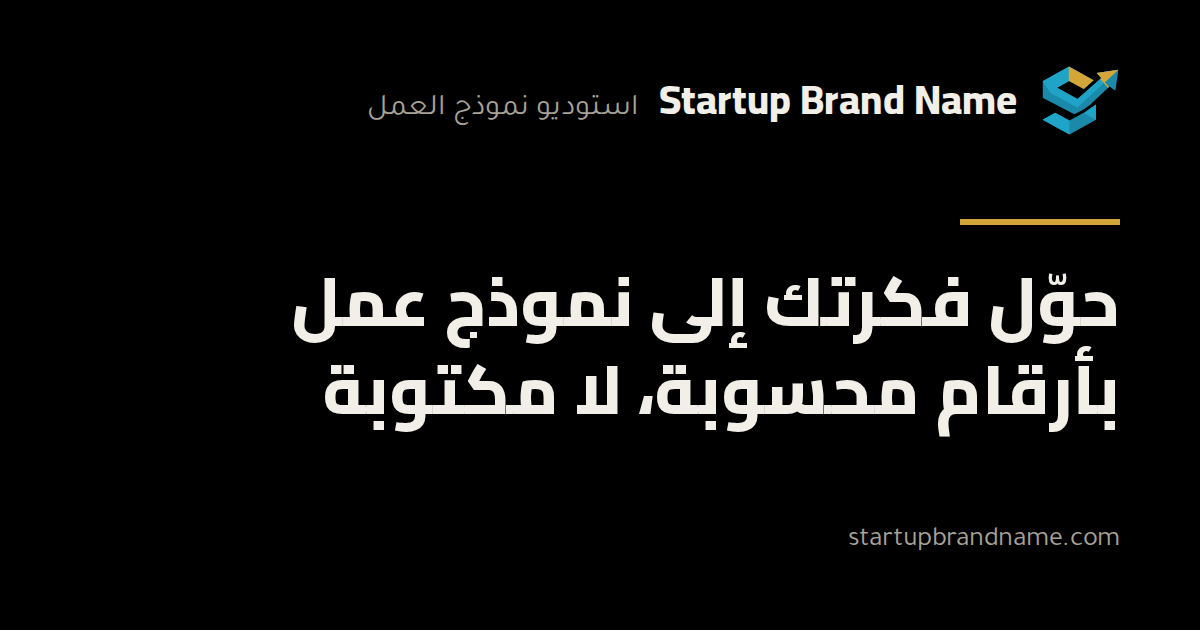
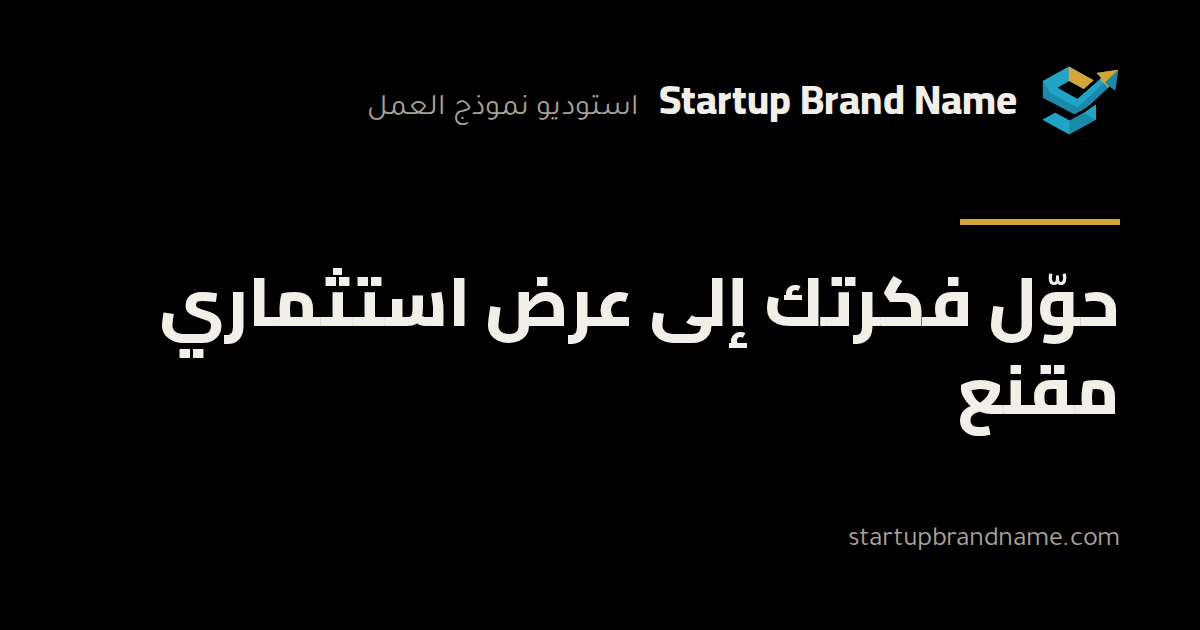
feat(web): investor headline and the public launch counter on the home page (D-344) (#117)
* feat(web): investor headline and the public launch counter on the home page (D-344)

Headline, sub-headline and one button; the counter shows the real spots and days left.
GET /api/launch/window is public and cached for a minute. The button still goes to sign-up.

* fix(web): keep zod out of the counter and rename its number tag

zod in the browser grew every page past the script budget; the counter checks by hand.
The tag was named left, which the logical-CSS check reads as a property.

* test(web): update the snapshots of the new home page

The home page and its share image changed with D-344.

---------

Changed region(s): [[0.1233, 0.4222, 0.925, 0.6937]]

diff --git a/apps/web/src/components/launch/launch-counter.tsx b/apps/web/src/components/launch/launch-counter.tsx
@@ -1,0 +1,73 @@
+'use client';
+
+import { useTranslations } from 'next-intl';
+import { useEffect, useState } from 'react';
+import { type CounterData, daysLeft, parseCounter } from '@/lib/launch/counter';
+
+type State =
+  | { readonly status: 'loading' }
+  | { readonly status: 'ready'; readonly data: CounterData; readonly days: number | null }
+  | { readonly status: 'unavailable' };
+
+/** Western digits, isolated, in both languages (CLAUDE.md §6). */
+function Num({ value }: { value: number }) {
+  return <bdi className="num">{value}</bdi>;
+}
+
+/**
+ * The public counter of the free launch window (D-331, D-344): the spots left of the total and the
+ * days left, read from the database through /api/launch/window. A thin gold rule marks it; the
+ * numbers are plain and heavy, because gold belongs to the one button of the page. The box keeps
+ * its height while it loads and when the numbers cannot be read, so nothing around it moves, and
+ * no number is ever shown that was not received.
+ */
+export function LaunchCounter() {
+  const t = useTranslations('launch');
+  const [state, setState] = useState<State>({ status: 'loading' });
+
+  useEffect(() => {
+    const controller = new AbortController();
+    fetch('/api/launch/window', { signal: controller.signal })
+      .then((response) => (response.ok ? response.json() : Promise.reject(new Error('status'))))
+      .then((body: unknown) => {
+        const data = parseCounter(body);
+        // The days are counted here, when the answer arrives: a render must not read the clock.
+        setState(
+          data === null
+            ? { status: 'unavailable' }
+            : { status: 'ready', data, days: daysLeft(data.endsAt, Date.now()) },
+        );
+      })
+      .catch(() => {
+        if (!controller.signal.aborted) setState({ status: 'unavailable' });
+      });
+    return () => {
+      controller.abort();
+    };
+  }, []);
+
+  const data = state.status === 'ready' ? state.data : null;
+  const days = state.status === 'ready' ? state.days : null;
+
+  return (
+    <div aria-live="polite" className="min-h-[5.5rem] border-s-[3px] border-gold-ink ps-4">
+      {data === null ? null : data.open && days !== 0 ? (
+        <div className="grid gap-1">
+          <p className="font-display text-h3 font-extrabold">
+            {t.rich('counterSpots', {
+              spots: () => <Num value={data.spotsLeft} />,
+              total: () => <Num value={data.spotsTotal} />,
+            })}
+          </p>
+          {days === null ? null : (
+            <p className="text-body font-bold text-ink-2">
+              {t.rich('counterDays', { days: () => <Num value={days} /> })}
+            </p>
+          )}
+        </div>
+      ) : (
+        <p className="reading text-small font-bold">{t('closed')}</p>
+      )}
+    </div>
+  );
+}

diff --git a/apps/web/src/content/home.ts b/apps/web/src/content/home.ts
@@ -3,10 +3,10 @@ import type { Localized, TitledText } from './types';
 
 export interface HomeContent {
   heading: string;
+  /** The line under the heading: what the visitor gets. */
+  subheading: string;
   lead: string;
-  status: string;
   start: string;
-  secondary: string;
   /** The link from the hero to the sample report. */
   sample: string;
   verdictLabel: string;
@@ -29,12 +29,10 @@ export interface HomeContent {
 
 export const HOME: Localized<HomeContent> = {
   ar: {
-    heading: 'حوّل فكرتك إلى نموذج عمل بأرقام محسوبة، لا مكتوبة',
-    lead: 'تشخيص منظّم لفكرة مشروعك، وأرقام يحسبها محرّك معادلات لا نموذج لغوي، وتقرير عربي ينتهي بحكم واضح: امضِ، أو عدّل، أو توقّف.',
-    status:
-      'نبني المنصة على مراحل: إنشاء الحساب متاح الآن مجانًا، ويُطلق التشخيص ثم التقرير تباعًا.',
-    start: 'ابدأ مجانًا',
-    secondary: 'كيف تعمل المنصة',
+    heading: 'تمكين الأفكار بلغة الاستثمار',
+    subheading: 'حوّل فكرتك إلى عرض استثماري مقنع',
+    lead: 'أجب عن أسئلة منظّمة، وتحصل على تقرير بأرقام يحسبها المحرّك لا نموذج لغوي، وحكم واضح: امضِ أو عدّل أو توقّف.',
+    start: 'ابدأ الآن',
     sample: 'شاهد تقريرًا نموذجيًا',
     verdictLabel: 'الحكم في كل تقرير',
     verdict: [
@@ -91,12 +89,10 @@ export const HOME: Localized<HomeContent> = {
     closingAction: 'أنشئ حسابك',
   },
   en: {
-    heading: 'Turn your idea into a business model with numbers that are calculated, not written',
-    lead: 'A structured diagnostic of your business idea, numbers computed by a formula engine rather than a language model, and an Arabic report that ends with a clear verdict: go, revise or stop.',
-    status:
-      'We are building the platform in stages: you can create a free account now, and the diagnostic and then the report follow.',
-    start: 'Start for free',
-    secondary: 'How it works',
+    heading: 'Empowering ideas in the language of investment',
+    subheading: 'Turn your idea into a convincing investment pitch',
+    lead: 'Answer structured questions and get a report with numbers a formula engine calculates, not a language model, and a clear verdict: go, revise or stop.',
+    start: 'Start now',
     sample: 'See a sample report',
     verdictLabel: 'The verdict in every report',
     verdict: [

diff --git a/apps/web/src/app/api/launch/window/route.test.ts b/apps/web/src/app/api/launch/window/route.test.ts
@@ -1,0 +1,63 @@
+import { afterEach, describe, expect, it, vi } from 'vitest';
+import { loadLaunchWindow } from '@/lib/launch/spot';
+import { GET } from './route';
+
+vi.mock('server-only', () => ({}));
+vi.mock('@supabase/supabase-js', () => ({ createClient: vi.fn(() => ({})) }));
+vi.mock('@/env/client', () => ({
+  getClientEnv: () => ({
+    NEXT_PUBLIC_SUPABASE_URL: 'http://127.0.0.1:54321',
+    NEXT_PUBLIC_SUPABASE_PUBLISHABLE_KEY: 'sb_publishable_test',
+  }),
+}));
+vi.mock('@/lib/launch/spot', () => ({ loadLaunchWindow: vi.fn() }));
+
+afterEach(() => {
+  vi.clearAllMocks();
+});
+
+describe('GET /api/launch/window (D-331, D-344)', () => {
+  it('answers the real numbers, cached for a minute at the edge', async () => {
+    vi.mocked(loadLaunchWindow).mockResolvedValue({
+      spotsTotal: 500,
+      spotsTaken: 40,
+      spotsLeft: 460,
+      endsAt: new Date('2027-02-03T20:59:59Z'),
+      open: true,
+    });
+
+    const response = await GET();
+
+    expect(response.status).toBe(200);
+    expect(response.headers.get('Cache-Control')).toContain('s-maxage=60');
+    expect(await response.json()).toEqual({
+      open: true,
+      spotsLeft: 460,
+      spotsTotal: 500,
+      endsAt: '2027-02-03T20:59:59.000Z',
+    });
+  });
+
+  it('answers a missing end date as null', async () => {
+    vi.mocked(loadLaunchWindow).mockResolvedValue({
+      spotsTotal: 500,
+      spotsTaken: 500,
+      spotsLeft: 0,
+      endsAt: null,
+      open: false,
+    });
+
+    const body = (await (await GET()).json()) as { endsAt: unknown; open: unknown };
+    expect(body).toMatchObject({ endsAt: null, open: false });
+  });
+
+  it('answers 503, never cached and with no number, when the window cannot be read', async () => {
+    vi.mocked(loadLaunchWindow).mockResolvedValue(null);
+
+    const response = await GET();
+
+    expect(response.status).toBe(503);
+    expect(response.headers.get('Cache-Control')).toBe('no-store');
+    expect(await response.json()).toEqual({ error: 'unavailable' });
+  });
+});

diff --git a/apps/web/src/app/api/launch/window/route.ts b/apps/web/src/app/api/launch/window/route.ts
@@ -1,0 +1,41 @@
+import { createClient } from '@supabase/supabase-js';
+import { NextResponse } from 'next/server';
+import { getClientEnv } from '@/env/client';
+import { loadLaunchWindow } from '@/lib/launch/spot';
+import type { Database } from '@/lib/supabase/database.types';
+import { SERVER_FETCH_TIMEOUT_MS, timedFetch } from '@/lib/supabase/timed-fetch';
+
+/**
+ * The free launch window as the public counter shows it (D-331, D-344): spots left and total, and
+ * the end date. Public and cached for a minute at the edge, so a busy home page asks the database
+ * about once a minute, not once a visit. It reads the database's own numbers through the public
+ * `launch_window()`; nothing is made up when it cannot, the answer is then 503 and the counter hides.
+ */
+export async function GET() {
+  const env = getClientEnv();
+  // No session: the counter is the same for everyone, so the answer can be shared by the cache.
+  const supabase = createClient<Database>(
+    env.NEXT_PUBLIC_SUPABASE_URL,
+    env.NEXT_PUBLIC_SUPABASE_PUBLISHABLE_KEY,
+    {
+      auth: { persistSession: false, autoRefreshToken: false, detectSessionInUrl: false },
+      global: { fetch: timedFetch(SERVER_FETCH_TIMEOUT_MS) },
+    },
+  );
+  const window = await loadLaunchWindow(supabase);
+  if (window === null) {
+    return NextResponse.json(
+      { error: 'unavailable' },
+      { status: 503, headers: { 'Cache-Control': 'no-store' } },
+    );
+  }
+  return NextResponse.json(
+    {
+      open: window.open,
+      spotsLeft: window.spotsLeft,
+      spotsTotal: window.spotsTotal,
+      endsAt: window.endsAt === null ? null : window.endsAt.toISOString(),
+    },
+    { headers: { 'Cache-Control': 'public, s-maxage=60, stale-while-revalidate=300' } },
+  );
+}

diff --git a/apps/web/src/lib/launch/counter.ts b/apps/web/src/lib/launch/counter.ts
@@ -1,0 +1,41 @@
+/**
+ * What the public counter reads from /api/launch/window (D-331): real numbers only, from the
+ * database. The client never shows a number it did not receive.
+ */
+export interface CounterData {
+  readonly open: boolean;
+  readonly spotsLeft: number;
+  readonly spotsTotal: number;
+  /** ISO time, or null while the end date is missing (the window is closed then). */
+  readonly endsAt: string | null;
+}
+
+function isCount(value: unknown): value is number {
+  return typeof value === 'number' && Number.isInteger(value) && value >= 0;
+}
+
+/**
+ * The counter data in an answer, or null when it is not the answer of the route. Written by hand,
+ * not with zod: this runs in the browser, and the library's weight would reach every page.
+ */
+export function parseCounter(body: unknown): CounterData | null {
+  if (typeof body !== 'object' || body === null) return null;
+  const { open, spotsLeft, spotsTotal, endsAt } = body as Record<string, unknown>;
+  if (typeof open !== 'boolean' || !isCount(spotsLeft) || !isCount(spotsTotal)) return null;
+  if (endsAt !== null && typeof endsAt !== 'string') return null;
+  return { open, spotsLeft, spotsTotal, endsAt };
+}
+
+const DAY_MS = 86_400_000;
+
+/**
+ * Whole days left until the end date, counting a started day as a day; 0 once it has passed. Null
+ * when there is no date. Computed in the browser from the end date, so a cached answer does not
+ * freeze the day count.
+ */
+export function daysLeft(endsAt: string | null, now: number): number | null {
+  if (endsAt === null) return null;
+  const end = Date.parse(endsAt);
+  if (Number.isNaN(end)) return null;
+  return Math.max(0, Math.ceil((end - now) / DAY_MS));
+}

diff --git a/apps/web/src/app/[locale]/(site)/page.tsx b/apps/web/src/app/[locale]/(site)/page.tsx
@@ -1,6 +1,8 @@
 import type { Metadata } from 'next';
 import { getTranslations } from 'next-intl/server';
 import { BidiText } from '@/components/marketing/bidi-text';
+import { ClientMessages } from '@/components/client-messages';
+import { LaunchCounter } from '@/components/launch/launch-counter';
 import { PageSection } from '@/components/marketing/page-intro';
 import { VerdictList } from '@/components/marketing/verdict-list';
 import { ButtonLink } from '@/components/ui/button';
@@ -35,17 +37,17 @@ export default async function HomePage() {
       <div className="mx-auto grid max-w-[75rem] gap-10 px-4 py-14 sm:px-6 lg:grid-cols-[1.15fr_0.85fr] lg:items-start lg:gap-16 lg:py-24">
         <div className="grid content-start gap-6">
           <h1 className="text-display font-extrabold">{c.heading}</h1>
+          <p className="font-display text-h2 font-bold">{c.subheading}</p>
           <p className="reading text-body-lg text-ink-2">{c.lead}</p>
           <div className="flex flex-wrap items-center gap-x-6 gap-y-3">
             <ButtonLink href="/signup" variant="primary">
               {c.start}
             </ButtonLink>
-            <TextLink href="/how-it-works">{c.secondary}</TextLink>
             <TextLink href="/sample-report">{c.sample}</TextLink>
           </div>
-          <p className="reading border-s-2 border-hairline ps-3 text-small text-muted">
-            {c.status}
-          </p>
+          <ClientMessages namespaces={['launch']}>
+            <LaunchCounter />
+          </ClientMessages>
         </div>
         <VerdictList label={c.verdictLabel} items={c.verdict} />
       </div>

diff --git a/apps/web/src/lib/launch/counter.test.ts b/apps/web/src/lib/launch/counter.test.ts
@@ -1,0 +1,33 @@
+import { describe, expect, it } from 'vitest';
+import { daysLeft, parseCounter } from './counter';
+
+const NOW = Date.parse('2026-11-06T12:00:00Z');
+
+describe('daysLeft', () => {
+  it('counts a started day as a day', () => {
+    expect(daysLeft('2026-11-07T11:00:00Z', NOW)).toBe(1);
+    expect(daysLeft('2026-11-07T13:00:00Z', NOW)).toBe(2);
+    expect(daysLeft('2027-02-03T20:59:59Z', NOW)).toBe(90);
+  });
+
+  it('is 0 once the date has passed, and null without a usable date', () => {
+    expect(daysLeft('2026-11-05T00:00:00Z', NOW)).toBe(0);
+    expect(daysLeft(null, NOW)).toBeNull();
+    expect(daysLeft('not a date', NOW)).toBeNull();
+  });
+});
+
+describe('parseCounter', () => {
+  it('accepts the answer of the route and nothing looser', () => {
+    const ok = { open: true, spotsLeft: 460, spotsTotal: 500, endsAt: '2027-02-03T20:59:59Z' };
+    expect(parseCounter(ok)).toEqual(ok);
+    expect(parseCounter({ ...ok, endsAt: null })).toEqual({ ...ok, endsAt: null });
+    expect(parseCounter({ ...ok, spotsLeft: -1 })).toBeNull();
+    expect(parseCounter({ ...ok, spotsLeft: 1.5 })).toBeNull();
+    expect(parseCounter({ ...ok, open: 'yes' })).toBeNull();
+    expect(parseCounter({ ...ok, endsAt: 5 })).toBeNull();
+    expect(parseCounter({ open: true })).toBeNull();
+    expect(parseCounter(null)).toBeNull();
+    expect(parseCounter('text')).toBeNull();
+  });
+});

diff --git a/apps/web/src/content/pages.ts b/apps/web/src/content/pages.ts
@@ -8,7 +8,7 @@ export const PAGE_META: Localized<Record<PublicPageId, PageMeta>> = {
       title: 'استوديو نموذج العمل',
       description:
         'تشخيص جدوى فكرة مشروعك بالأرقام: أسئلة منظّمة، وتقرير عربي بحكم واضح (امضِ أو عدّل أو توقّف).',
-      card: 'حوّل فكرتك إلى نموذج عمل بأرقام محسوبة، لا مكتوبة',
+      card: 'حوّل فكرتك إلى عرض استثماري مقنع',
     },
     howItWorks: {
       title: 'كيف تعمل المنصة',
@@ -70,7 +70,7 @@ export const PAGE_META: Localized<Record<PublicPageId, PageMeta>> = {
       title: 'Business Model Studio',
       description:
         'A business idea diagnostic with calculated numbers: structured questions, an Arabic report with a clear verdict (go, revise or stop).',
-      card: 'Turn your idea into a business model with numbers that are calculated, not written',
+      card: 'Turn your idea into a convincing investment pitch',
     },
     howItWorks: {
       title: 'How it works',

diff --git a/docs/DECISIONS.md b/docs/DECISIONS.md
@@ -3523,3 +3523,26 @@ audience, input_hash, engine_version, pdf_path, pdf_bytes)` is security definer 
   texts say the founder can edit and make new versions without a limit.
 - **Replaces:** the limits of D-321. The rest of D-321 and D-323 stands.
 - **Status:** Active
+
+### D-344 (2026-11-06): The home page speaks to investors; the visitor answers all 64 questions without an account
+
+- **Headline (owner's words):** «تمكين الأفكار بلغة الاستثمار», and under it «حوّل فكرتك إلى عرض استثماري
+  مقنع». One button, «ابدأ الآن» (the only gold on the page), and a link to the sample report. The line
+  of the old hero and its stage note are gone: the counter replaces the note.
+- **The counter:** the free launch window shown as two plain, heavy lines under a thin gold rule: the
+  spots left of the total, and the days left. Numbers come from the database through
+  `/api/launch/window` (public, cached for a minute); nothing is shown that was not received, and the box
+  keeps its height so the page does not shift. The numbers are not gold: gold belongs to the button
+  (design plan, owner's choice of the UI recommendation).
+- **Without an account:** the visitor answers **all 64 questions** (owner's decision), under an anonymous
+  identity that becomes the account when the visitor signs in (D-335). The button leads to sign-up until
+  that flow exists; it is built in small steps: CAPTCHA and limits first, then the anonymous identity,
+  then the 40% preview, then the identity upgrade.
+- **Risk the owner accepted:** the 64 questions become readable by anyone who walks through them. The
+  private question bank (D-303, D-304) was protected by never reaching a browser before sign-in; what
+  remains is the CAPTCHA, the request limits (D-340) and the session lock. The 20 quick questions were
+  already public.
+- **The consent:** shown after the visitor has written the idea and before it is sent to the AI review,
+  not before typing (owner's choice). The text is drafted here and reviewed by the legal adviser later
+  (open item of D-335).
+- **Status:** Active
